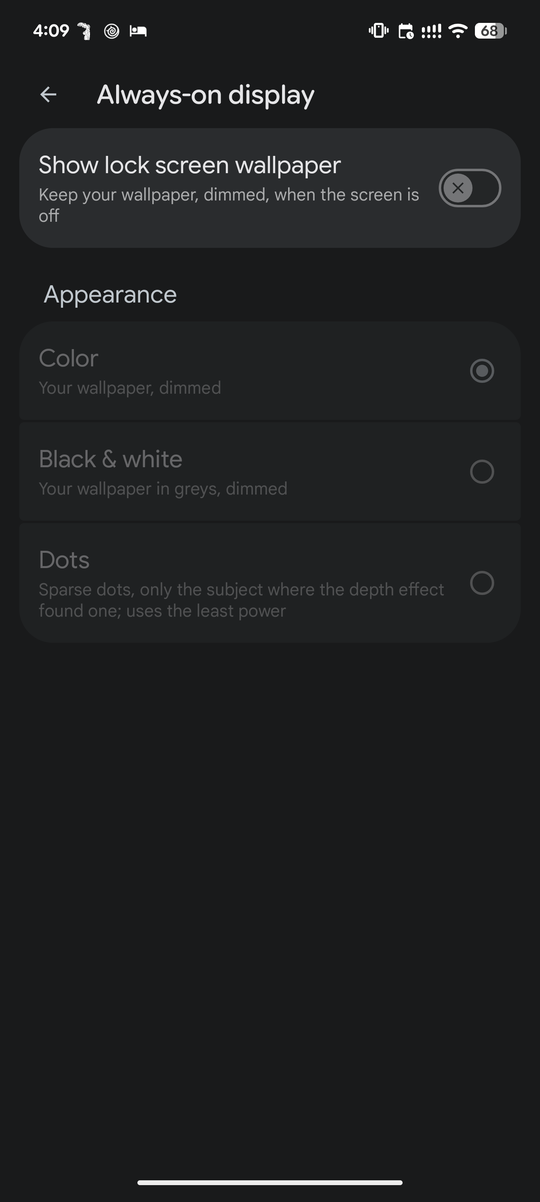
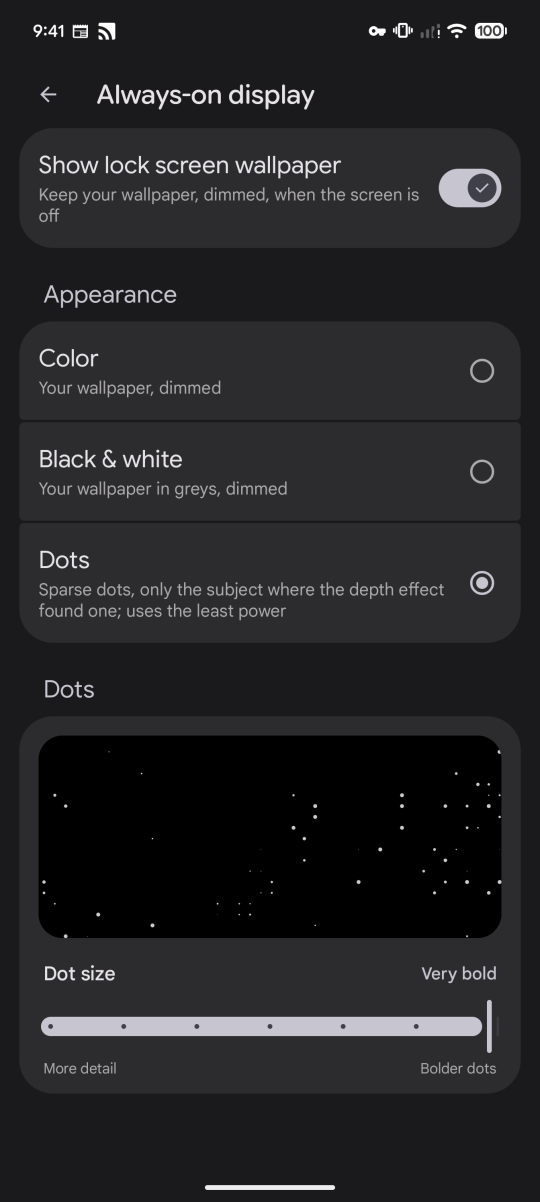
Fresh screenshots of every feature in a collapsible README gallery
Every old screenshot is replaced with new ones taken on the Pixel 8 Pro
(Android 17 QPR1, CP4A.261105.040.A1) with a clean status bar: the eight
clock styles with the subject in front, the iOS clock across size, width
and rotation, the picker's Style, Color, Size and Position tabs, the
Depth effect page and the subject editor, the four always-on display
looks, and the settings and diagnostics pages. Photos are JPEG and
pages PNG, 3.5 MB in all.

The README shows them in six collapsible groups with a title and a line
for each picture; docs/features.md links there instead of repeating them.

diff --git a/README.md b/README.md
@@ -11,9 +11,9 @@
 [![Android](https://img.shields.io/badge/Android-17%20QPR1-3DDC84?logo=android&logoColor=fff&style=for-the-badge)](#install)
 [![Sponsor](https://img.shields.io/badge/Sponsor-%E2%9D%A4-EA4AAA?logo=githubsponsors&logoColor=fff&style=for-the-badge)](https://github.com/sponsors/MrxSiN)
 
-<img src="docs/screenshots/lockscreen-depth.png" width="240" alt="The depth effect: the wallpaper's subject in front of the iOS clock">
-<img src="docs/screenshots/ios-size-largest.png" width="240" alt="The iOS clock at its largest size">
-<img src="docs/screenshots/page-depth-effect.png" width="240" alt="The Depth effect page in Wallpaper & style">
+<img src="docs/screenshots/lock-ios.jpg" width="240" alt="The iOS clock behind the wallpaper's subject">
+<img src="docs/screenshots/lock-hyper.jpg" width="240" alt="The Hyper clock behind the wallpaper's subject">
+<img src="docs/screenshots/lock-cinema.jpg" width="240" alt="The Cinema clock behind the wallpaper's subject">
 
 </div>
 
@@ -26,7 +26,106 @@
 - **Double tap** an empty space on the lock screen to turn the screen off.
 - **Compatibility & diagnostics:** every host member checked on the phone before anything installs, per-feature fallbacks, and Safe Mode after repeated crashes.
 
-Every setting, with screenshots: [features](docs/features.md).
+Every setting in detail: [features](docs/features.md).
+
+## Screenshots
+
+Taken on a Pixel 8 Pro running Android 17 QPR1. Open a section to see it.
+
+<details>
+<summary><b>🕘 Clock styles</b> · eight lock screen looks, each with the subject in front</summary>
+<br>
+
+<table>
+<tr>
+<td align="center" valign="top" width="25%"><img src="docs/screenshots/lock-ios.jpg" width="200" alt="iOS: AXS66Clock on one line"><br><sub><b>iOS</b><br>AXS66Clock on one line</sub></td>
+<td align="center" valign="top" width="25%"><img src="docs/screenshots/lock-hyper.jpg" width="200" alt="Hyper: outlined figures down the screen"><br><sub><b>Hyper</b><br>outlined figures down the screen</sub></td>
+<td align="center" valign="top" width="25%"><img src="docs/screenshots/lock-headline.jpg" width="200" alt="Headline: time, weekday and date as one block"><br><sub><b>Headline</b><br>time, weekday and date as one block</sub></td>
+<td align="center" valign="top" width="25%"><img src="docs/screenshots/lock-poster.jpg" width="200" alt="Poster: a bold date title, a serif time"><br><sub><b>Poster</b><br>a bold date title, a serif time</sub></td>
+</tr>
+<tr>
+<td align="center" valign="top" width="25%"><img src="docs/screenshots/lock-one.jpg" width="200" alt="One: tall, light, hour over minute"><br><sub><b>One</b><br>tall, light, hour over minute</sub></td>
+<td align="center" valign="top" width="25%"><img src="docs/screenshots/lock-horizon.jpg" width="200" alt="Horizon: one wide hairline line"><br><sub><b>Horizon</b><br>one wide hairline line</sub></td>
+<td align="center" valign="top" width="25%"><img src="docs/screenshots/lock-dot.jpg" width="200" alt="Dot: a five-by-seven dot matrix"><br><sub><b>Dot</b><br>a five-by-seven dot matrix</sub></td>
+<td align="center" valign="top" width="25%"><img src="docs/screenshots/lock-cinema.jpg" width="200" alt="Cinema: towering condensed figures"><br><sub><b>Cinema</b><br>towering condensed figures</sub></td>
+</tr>
+</table>
+
+</details>
+
+<details>
+<summary><b>📐 Size, width and rotation</b> · the iOS clock across its controls</summary>
+<br>
+
+<table>
+<tr>
+<td align="center" valign="top" width="25%"><img src="docs/screenshots/ios-size-smallest.jpg" width="200" alt="Smallest size: Google's own clock height"><br><sub><b>Smallest size</b><br>Google's own clock height</sub></td>
+<td align="center" valign="top" width="25%"><img src="docs/screenshots/ios-size-largest.jpg" width="200" alt="Largest size: the tallest iOS 26 clock"><br><sub><b>Largest size</b><br>the tallest iOS 26 clock</sub></td>
+<td align="center" valign="top" width="25%"><img src="docs/screenshots/ios-width-narrowest.jpg" width="200" alt="Narrowest width: heavier figures as they narrow"><br><sub><b>Narrowest width</b><br>heavier figures as they narrow</sub></td>
+<td align="center" valign="top" width="25%"><img src="docs/screenshots/ios-rotated.jpg" width="200" alt="Turned: any angle up to 90°, still behind the subject"><br><sub><b>Turned</b><br>any angle up to 90°, still behind the subject</sub></td>
+</tr>
+</table>
+
+</details>
+
+<details>
+<summary><b>🎛 Clock pages</b> · Wallpaper & style's own tabs</summary>
+<br>
+
+<table>
+<tr>
+<td align="center" valign="top" width="25%"><img src="docs/screenshots/picker-clock.png" width="200" alt="Style: every style and the width slider"><br><sub><b>Style</b><br>every style and the width slider</sub></td>
+<td align="center" valign="top" width="25%"><img src="docs/screenshots/picker-color.png" width="200" alt="Color: the theme or a colour of your own"><br><sub><b>Color</b><br>the theme or a colour of your own</sub></td>
+<td align="center" valign="top" width="25%"><img src="docs/screenshots/picker-size.png" width="200" alt="Size: size steps and adaptive size"><br><sub><b>Size</b><br>size steps and adaptive size</sub></td>
+<td align="center" valign="top" width="25%"><img src="docs/screenshots/picker-position.png" width="200" alt="Position: drag, snap and turn the clock"><br><sub><b>Position</b><br>drag, snap and turn the clock</sub></td>
+</tr>
+</table>
+
+</details>
+
+<details>
+<summary><b>🪄 Depth effect</b> · its page and the subject editor</summary>
+<br>
+
+<table>
+<tr>
+<td align="center" valign="top" width="25%"><img src="docs/screenshots/page-depth-effect.png" width="200" alt="Depth effect: subject, tilt, reprocess and edit"><br><sub><b>Depth effect</b><br>subject, tilt, reprocess and edit</sub></td>
+<td align="center" valign="top" width="25%"><img src="docs/screenshots/page-depth-effect-2.png" width="200" alt="Layout: depth map, readability and subjects"><br><sub><b>Layout</b><br>depth map, readability and subjects</sub></td>
+<td align="center" valign="top" width="25%"><img src="docs/screenshots/editor.jpg" width="200" alt="Edit subject: paint to add or erase"><br><sub><b>Edit subject</b><br>paint to add or erase</sub></td>
+<td align="center" valign="top" width="25%"><img src="docs/screenshots/editor-overlay.jpg" width="200" alt="Overlay: the subject tinted over the photo"><br><sub><b>Overlay</b><br>the subject tinted over the photo</sub></td>
+</tr>
+</table>
+
+</details>
+
+<details>
+<summary><b>🌙 Always-on display</b> · the photo kept when the screen is off</summary>
+<br>
+
+<table>
+<tr>
+<td align="center" valign="top" width="25%"><img src="docs/screenshots/aod-default.jpg" width="200" alt="Off: SystemUI's own black display"><br><sub><b>Off</b><br>SystemUI's own black display</sub></td>
+<td align="center" valign="top" width="25%"><img src="docs/screenshots/aod-color.jpg" width="200" alt="Color: your wallpaper, dimmed"><br><sub><b>Color</b><br>your wallpaper, dimmed</sub></td>
+<td align="center" valign="top" width="25%"><img src="docs/screenshots/aod-black-and-white.jpg" width="200" alt="Black & white: in greys, dimmed"><br><sub><b>Black & white</b><br>in greys, dimmed</sub></td>
+<td align="center" valign="top" width="25%"><img src="docs/screenshots/aod-dots.png" width="200" alt="Dots: only the subject, the fewest pixels lit"><br><sub><b>Dots</b><br>only the subject, the fewest pixels lit</sub></td>
+</tr>
+</table>
+
+</details>
+
+<details>
+<summary><b>⚙ Settings and diagnostics</b> · everything is in Wallpaper & style</summary>
+<br>
+
+<table>
+<tr>
+<td align="center" valign="top" width="25%"><img src="docs/screenshots/picker-lock-screen.png" width="200" alt="Lock screen: the module's entries"><br><sub><b>Lock screen</b><br>the module's entries</sub></td>
+<td align="center" valign="top" width="25%"><img src="docs/screenshots/page-always-on-display.png" width="200" alt="Always-on display: appearance and dot size"><br><sub><b>Always-on display</b><br>appearance and dot size</sub></td>
+<td align="center" valign="top" width="25%"><img src="docs/screenshots/page-diagnostics.png" width="200" alt="Diagnostics: every feature checked on your build"><br><sub><b>Diagnostics</b><br>every feature checked on your build</sub></td>
+</tr>
+</table>
+
+</details>
 
 ## Install
 

diff --git a/docs/features.md b/docs/features.md
@@ -1,8 +1,9 @@
 # Features
 
 Every control is in Wallpaper & style. This page lists each feature and its
-settings; the [README](../README.md) has the short version, and the other
-pages in [docs](README.md) say how each works.
+settings; the [README](../README.md) has the short version and
+[screenshots](../README.md#screenshots) of each, and the other pages in
+[docs](README.md) say how each works.
 
 <details open>
 <summary><b>🕘 Eight clock styles</b></summary>
@@ -27,23 +28,6 @@ share the screen.
 The other styles are inspired by those systems' lock screens and drawn in the
 Pixel's own Roboto Flex; no font or artwork of theirs is bundled.
 
-<table>
-<tr>
-<td align="center"><img src="screenshots/style-ios.png" width="250"><br><sub><b>iOS</b></sub></td>
-<td align="center"><img src="screenshots/style-hyper.png" width="250"><br><sub><b>Hyper</b></sub></td>
-</tr>
-<tr>
-<td align="center"><img src="screenshots/style-headline.png" width="250"><br><sub><b>Headline</b></sub></td>
-<td align="center"><img src="screenshots/style-poster.png" width="250"><br><sub><b>Poster</b></sub></td>
-<td align="center"><img src="screenshots/style-one.png" width="250"><br><sub><b>One</b></sub></td>
-</tr>
-<tr>
-<td align="center"><img src="screenshots/style-horizon.png" width="250"><br><sub><b>Horizon</b></sub></td>
-<td align="center"><img src="screenshots/style-dot.png" width="250"><br><sub><b>Dot</b></sub></td>
-<td align="center"><img src="screenshots/style-cinema.png" width="250"><br><sub><b>Cinema</b>, behind the subject</sub></td>
-</tr>
-</table>
-
 Every large face writes its own date where its design puts it, so SystemUI's
 date and weather row is left out beside it rather than shown twice.
 
@@ -66,21 +50,6 @@ The iOS time is set at one text size, as on iOS, so "1:11" is narrower than
 sets only how tall, so a taller size stretches the figures upward rather than
 crowding the screen. Every pair of figures stands the same gap apart, and the
 sliders glide the preview to each step.
-
-<table>
-<tr>
-<td align="center"><img src="screenshots/ios-width-widest.png" width="250"><br><sub>iOS at the first width stop: <code>wght</code> 200, <code>wdth</code> 120</sub></td>
-<td align="center"><img src="screenshots/ios-width-narrowest.png" width="250"><br><sub>At the last width stop: <code>wght</code> 800, <code>wdth</code> 30</sub></td>
-</tr>
-<tr>
-<td align="center"><img src="screenshots/style-ios.png" width="250"><br><sub>The smallest size: Google's own clock height</sub></td>
-<td align="center"><img src="screenshots/ios-size-largest.png" width="250"><br><sub>The largest size, behind the depth effect's subject</sub></td>
-</tr>
-<tr>
-<td align="center"><img src="screenshots/page-size.png" width="250"><br><sub>Clock → Size</sub></td>
-<td></td>
-</tr>
-</table>
 
 </details>
 
@@ -105,12 +74,6 @@ so its corners never run under the status bar or onto the fingerprint sensor,
 and the depth effect and the card under the clock follow it. The always-on
 display shows the clock upright, and it turns into its tilt as the screen
 wakes.
-
-<table>
-<tr>
-<td align="center"><img src="screenshots/page-position.png" width="250"><br><sub>Clock → Position, Adaptive off</sub></td>
-</tr>
-</table>
 
 </details>
 
@@ -191,13 +154,6 @@ meanwhile — silent, with its icon in the status bar — then **Depth effect
 ready** for a few seconds. A photo already seen shows its effect at once. Live
 wallpapers are drawn by their own apps and have no depth effect.
 
-<table>
-<tr>
-<td align="center"><img src="screenshots/page-depth-effect.png" width="250"><br><sub>The Depth effect page</sub></td>
-<td align="center"><img src="screenshots/lockscreen-depth.png" width="250"><br><sub>The subject in front of the time, by the depth map</sub></td>
-</tr>
-</table>
-
 </details>
 
 <details open>
@@ -224,13 +180,6 @@ burn-in.
 With notifications, the rows are spaced as SystemUI spaces its own: a small
 module face is given the band the lock screen lays its own small clock out in,
 so the date row and the notifications below it keep their distances.
-
-<table>
-<tr>
-<td align="center"><img src="screenshots/page-always-on-display.png" width="250"><br><sub>The Always-on display page</sub></td>
-<td align="center"><img src="screenshots/aod-small-clock.png" width="250"><br><sub>Notifications on the always-on display</sub></td>
-</tr>
-</table>
 
 </details>
 
@@ -266,12 +215,6 @@ contract moved when it is not.
 | **Per-feature hooks** | A feature whose required contract is missing never installs its hooks. It switches itself off and logs why; clocks, the depth effect, the picker pages and smartspace placement each stand or fall alone. |
 | **Verified builds** | The Android builds each feature has been run on, so a snapshot from an unverified build reads as untested rather than broken. |
 | **Safe Mode** | Repeated crashes in a hooked process turn every hook off and post a notification, rather than leaving you with a lock screen or a picker you cannot use. Clearing it is one tap. |
-
-<table>
-<tr>
-<td align="center"><img src="screenshots/page-diagnostics.png" width="250"><br><sub>On Android 17 QPR1: every feature compatible</sub></td>
-</tr>
-</table>
 
 </details>
 
